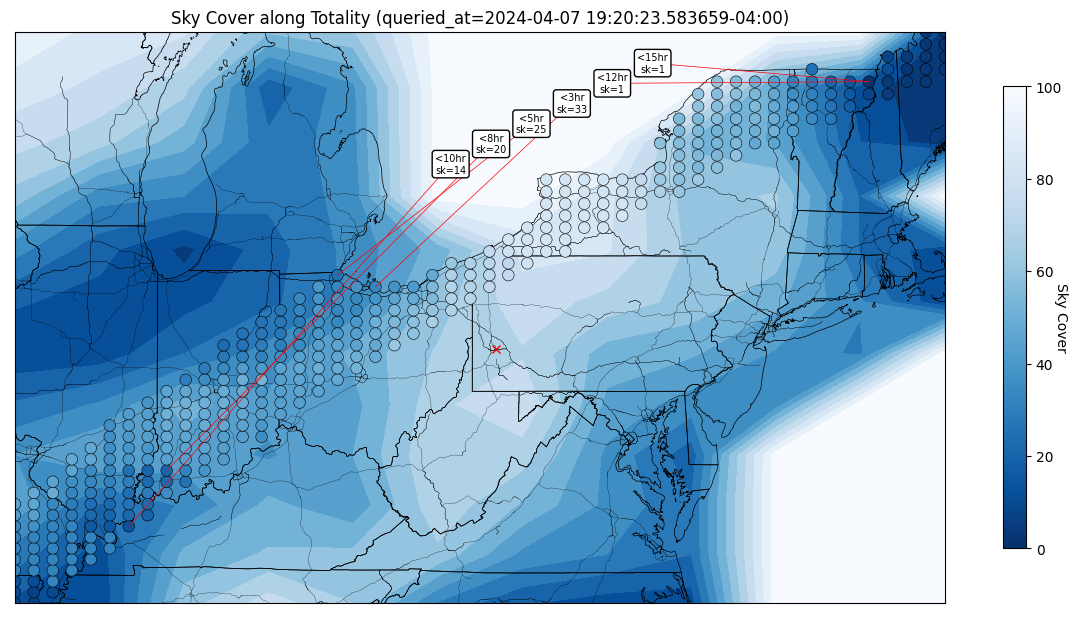
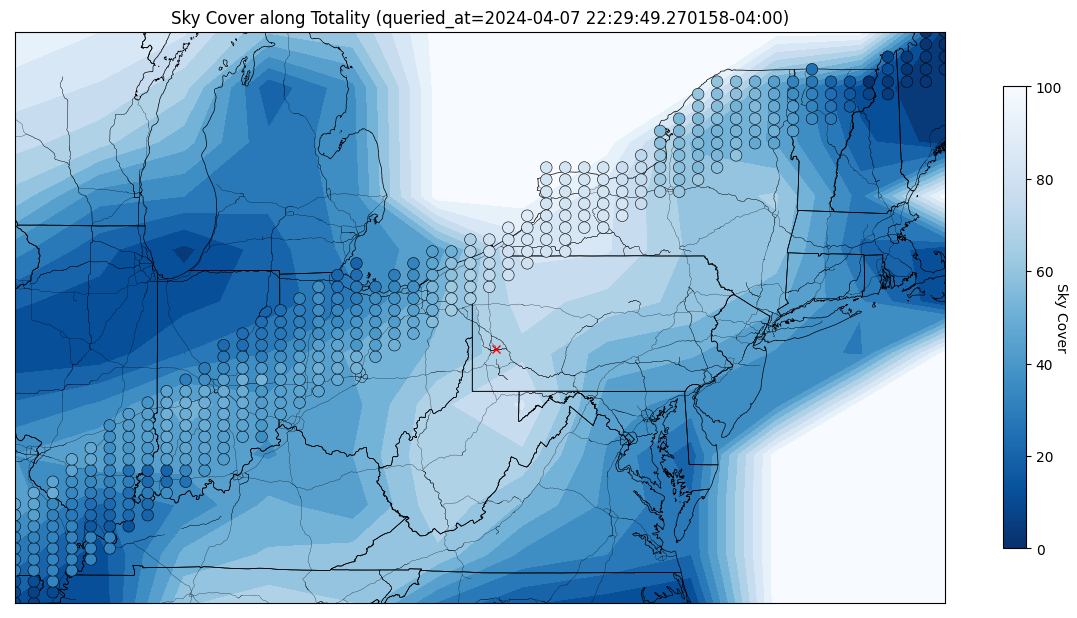
Automated map update

diff --git a/README.md b/README.md
@@ -2,9 +2,3 @@ The last sky cover plot generated:
 ![cover](cover.png)
 
 The best targets by hour:
- - Less than 3 hours: (41.48571, -82.67347) cover: 33
- - Less than 5 hours: (41.68163, -83.51837) cover: 25
- - Less than 8 hours: (38.35102, -87.32041) cover: 20
- - Less than 10 hours: (37.37143, -88.16531) cover: 14
- - Less than 12 hours: (44.81633, -71.68980) cover: 1
- - Less than 15 hours: (44.81633, -71.68980) cover: 1
